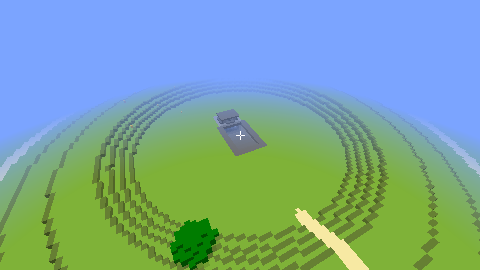
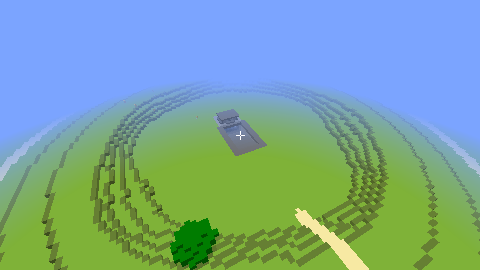
Silo: even out lone bank pillars and pits after the wobble; check frames of the waved banks and redone set
A contour of the waved banks running diagonally left single columns one block above or below all four neighbours
(Silos 3-6: 1-9 each, Silo 18 none). banks.py --wobble now takes each such column to its neighbours' nearest level
before laying the moss (clear of trunks); --smooth-only does that alone for banks waved before it. Shot 08 moves into
the aisle at 3713.5 67 1840.5 and shot 11 turns from the plain to the bowl (yaw -15, pitch 6).

diff --git a/tools/silo/banks.py b/tools/silo/banks.py
@@ -15,14 +15,15 @@ The steps still ran in perfect concentric rings, an amphitheatre (shader frames 
 by earth-moving and grass has no exact circles: with --wobble AMP every lawn or path column of the inner bank and
 crest first takes the ground found up to AMP blocks further in or out along its own radius (two slow waves round the
 ring whose phase drifts with the radius, so neighbouring contours wave differently; different for each silo; moss from an earlier pass goes back to lawn first), so each contour waves and the
-treads vary in width; then the moss is laid on the new risers. Trunks and anything else standing on a column keep it.
+treads vary in width; a contour running diagonally leaves lone one-column pillars and pits, which go to their
+neighbours' level; then the moss is laid on the new risers. --smooth-only does that evening alone, for banks waved before it. Trunks and anything else standing on a column keep it.
 
 With --hero, Silo 18's tree is replaced by hero_tree.py's: the blocks listed in --hero-clear (the previous tree's
 offsets about the same base column) that are still logs or leaves go first, and a foot log under the base becomes
 grass again.
 
   ALMIGHTY_URL=... ALMIGHTY_TOKEN_FILE=... uv run tools/silo/banks.py <layout.json> [--number N ...] [--hero]
-      [--hero-clear old.json] [--dry]
+      [--hero-clear old.json] [--wobble AMP [--smooth-only]] [--dry]
 """
 from __future__ import annotations
 
@@ -93,7 +94,7 @@ def scan = {
 def ground = scan()
 if (unloaded) return [unloaded: unloaded, hero: hero, cleared: cleared]
 double rx = args.rx as double, rz = args.rz as double
-int moved = 0, unmossed = 0
+int moved = 0, unmossed = 0, smoothed = 0
 if (args.wobble) {
   def w = args.wobble
   def grassS = Blocks.GRASS_BLOCK.defaultBlockState(), dirtS = Blocks.DIRT.defaultBlockState()
@@ -111,7 +112,7 @@ if (args.wobble) {
   }
   // each column takes the original ground found a little further in or out along its own radius: the contours wave
   def target = [:]
-  for (int x = cx - r1; x <= cx + r1; x++) {
+  if (w.move) for (int x = cx - r1; x <= cx + r1; x++) {
     for (int z = cz - r1; z <= cz + r1; z++) {
       double d = Math.hypot(x + 0.5 - rx, z + 0.5 - rz)
       if (d < (w.r0 as double) || d > (w.r1 as double)) continue
@@ -150,6 +151,36 @@ if (args.wobble) {
     moved++
   }
   ground = scan()
+  // a contour running diagonally leaves single columns a block above or below all four neighbours: a lone pillar or
+  // pit, not a step. Each goes to its neighbours' nearest level
+  for (int pass = 0; pass < 2; pass++) {
+    for (int x = cx - r1; x <= cx + r1; x++) {
+      for (int z = cz - r1; z <= cz + r1; z++) {
+        double d = Math.hypot(x + 0.5 - rx, z + 0.5 - rz)
+        if (d < (w.r0 as double) || d > (w.r1 as double)) continue
+        int g = ground[x * 65536L + z]
+        def nb = [[1, 0], [-1, 0], [0, 1], [0, -1]].collect { o -> ground[(x + o[0]) * 65536L + z + o[1]] }
+        if (nb.contains(null)) continue
+        int t = nb.every { it > g } ? (nb.min() as int) : nb.every { it < g } ? (nb.max() as int) : g
+        if (t == g) continue
+        def top = lvl.getBlockState(new BlockPos(x, g, z))
+        if (!(top.is(Blocks.GRASS_BLOCK) || top.is(Blocks.DIRT))) continue
+        if (!lvl.getBlockState(new BlockPos(x, Math.max(g, t) + 1, z)).isAir()) continue
+        boolean nearTrunk = false
+        for (int ax = -2; ax <= 2 && !nearTrunk; ax++)
+          for (int az = -2; az <= 2 && !nearTrunk; az++)
+            for (int ay = 0; ay <= 2; ay++)
+              if (lvl.getBlockState(new BlockPos(x + ax, g + ay, z + az)).is(BlockTags.LOGS)) { nearTrunk = true; break }
+        if (nearTrunk) continue
+        if (t > g) { for (int y = g; y < t; y++) lvl.setBlock(new BlockPos(x, y, z), dirtS, 18) }
+        else { for (int y = t + 1; y <= g; y++) lvl.setBlock(new BlockPos(x, y, z), air, 18) }
+        lvl.setBlock(new BlockPos(x, t, z), top, 18)
+        ground[x * 65536L + z] = t
+        smoothed++
+      }
+    }
+  }
+  ground = scan()
 }
 def moss = Blocks.MOSS_BLOCK.defaultBlockState()
 int mossed = 0, tufts = 0
@@ -174,7 +205,7 @@ for (int x = cx - r1; x <= cx + r1; x++) {
     }
   }
 }
-return [mossed: mossed, tufts: tufts, hero: hero, cleared: cleared, moved: moved, unmossed: unmossed]
+return [mossed: mossed, tufts: tufts, hero: hero, cleared: cleared, moved: moved, unmossed: unmossed, smoothed: smoothed]
 """
 
 
@@ -186,6 +217,8 @@ def main():
     ap.add_argument("--hero-clear", help="json [[dx, dy, dz], ...]: the previous tree's blocks about its base")
     ap.add_argument("--wobble", type=float, default=0.0, metavar="AMP",
                     help="wave the inner bank's contours by up to AMP blocks before laying the moss")
+    ap.add_argument("--smooth-only", action="store_true",
+                    help="with --wobble: only even out lone pillars and pits left by an earlier wobble, move nothing")
     ap.add_argument("--dry", action="store_true")
     a = ap.parse_args()
     layout = json.load(open(a.layout))
@@ -215,7 +248,8 @@ def main():
             args = {"x": cx, "z": cz, "rx": rx, "rz": rz, "r0": BANK[0], "r1": r1,
                     "hero": h18 if s["number"] == 18 else None,
                     "wobble": {"r0": WOBBLE[0], "r1": WOBBLE[1], "amp": a.wobble,
-                               "p1": 6.283 * hero_seed(s["number"], 1), "p2": 6.283 * hero_seed(s["number"], 2)}
+                               "p1": 6.283 * hero_seed(s["number"], 1), "p2": 6.283 * hero_seed(s["number"], 2),
+                               "move": not a.smooth_only}
                     if a.wobble and s["number"] != 1 else None}   # Silo 1: the opening-day set stands to r 34
             for attempt in range(3):                # leased chunks finish loading a little after area.prepare
                 res = br.call("script", {"code": SCRIPT, "args": args, "timeout_ms": 10000})
